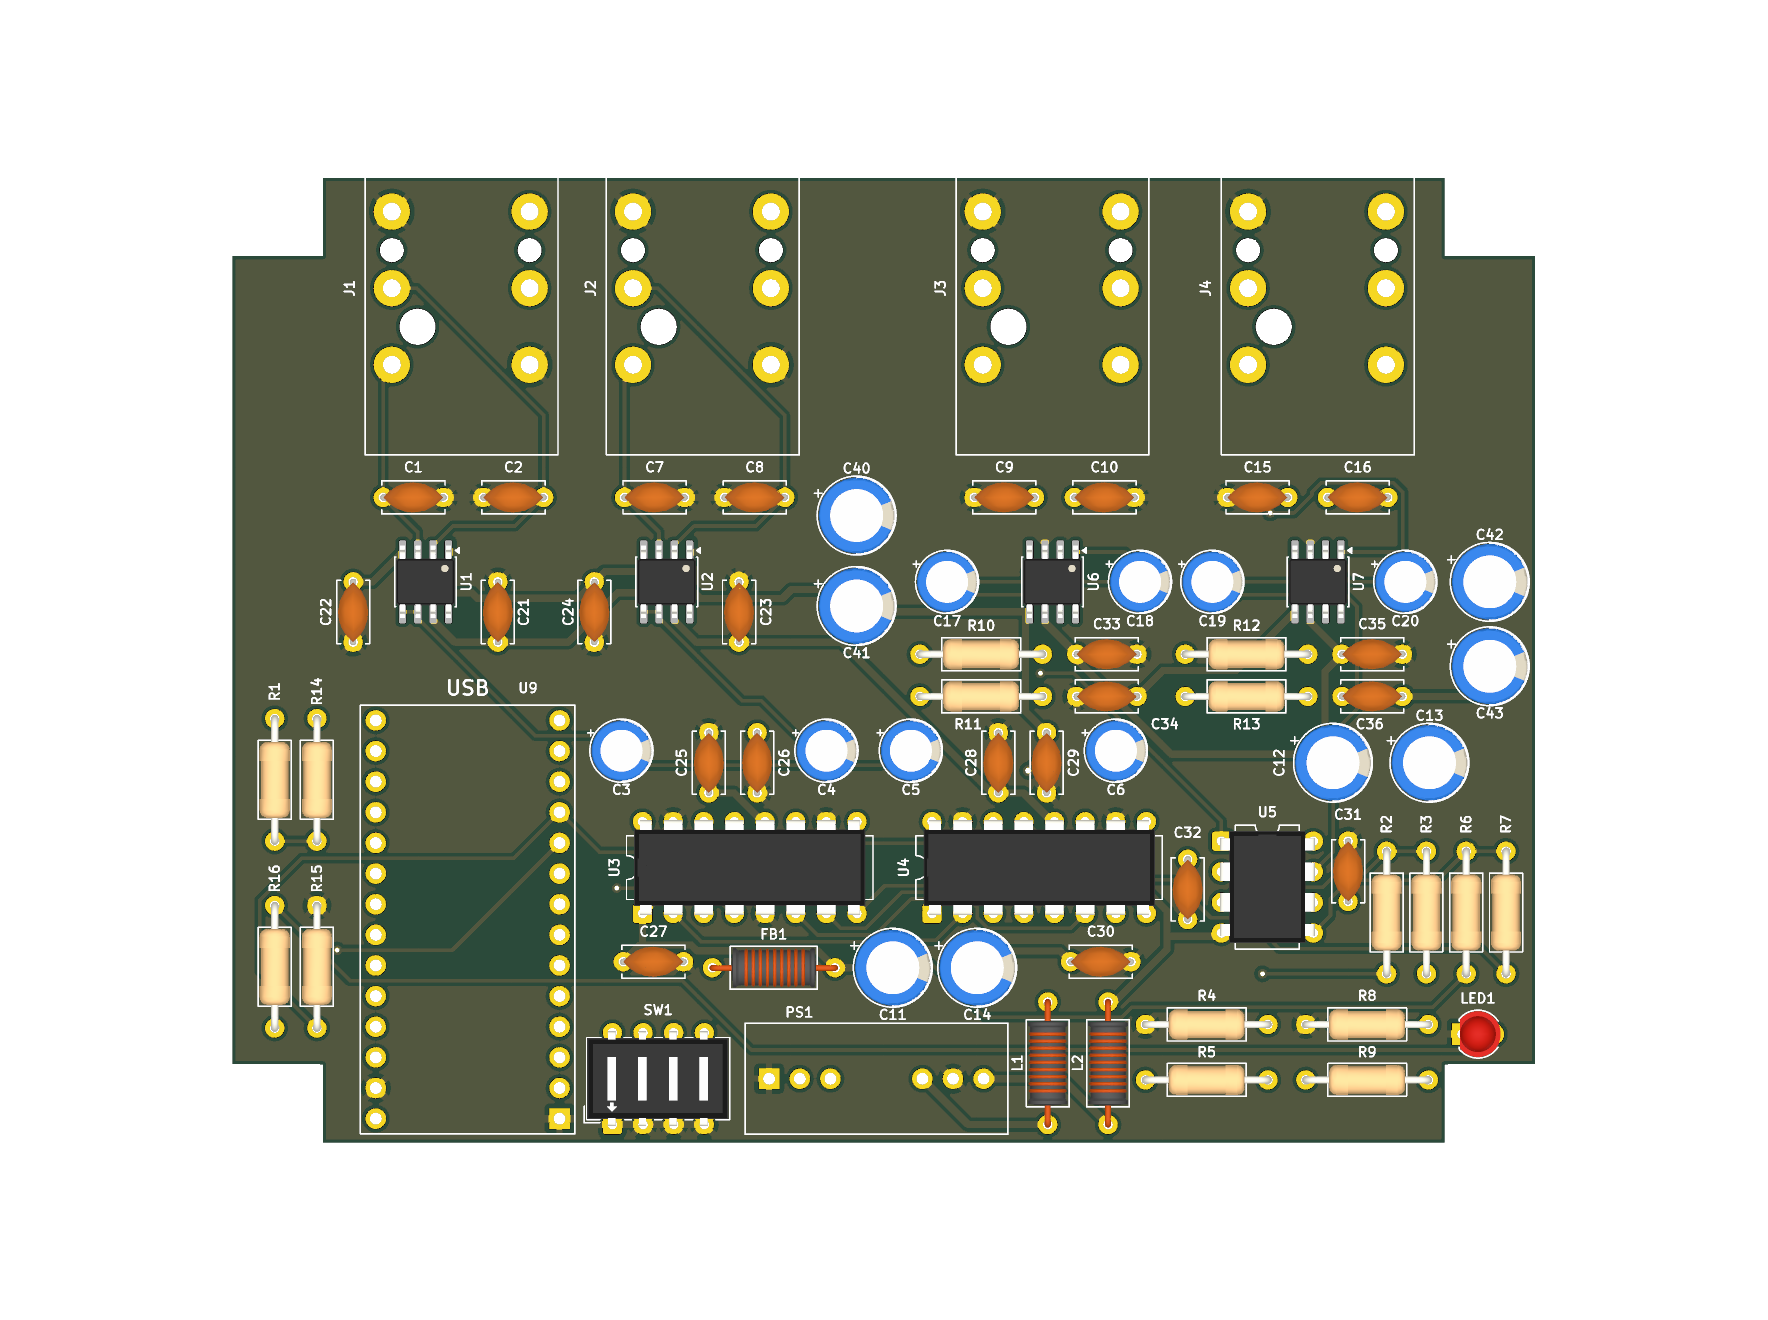
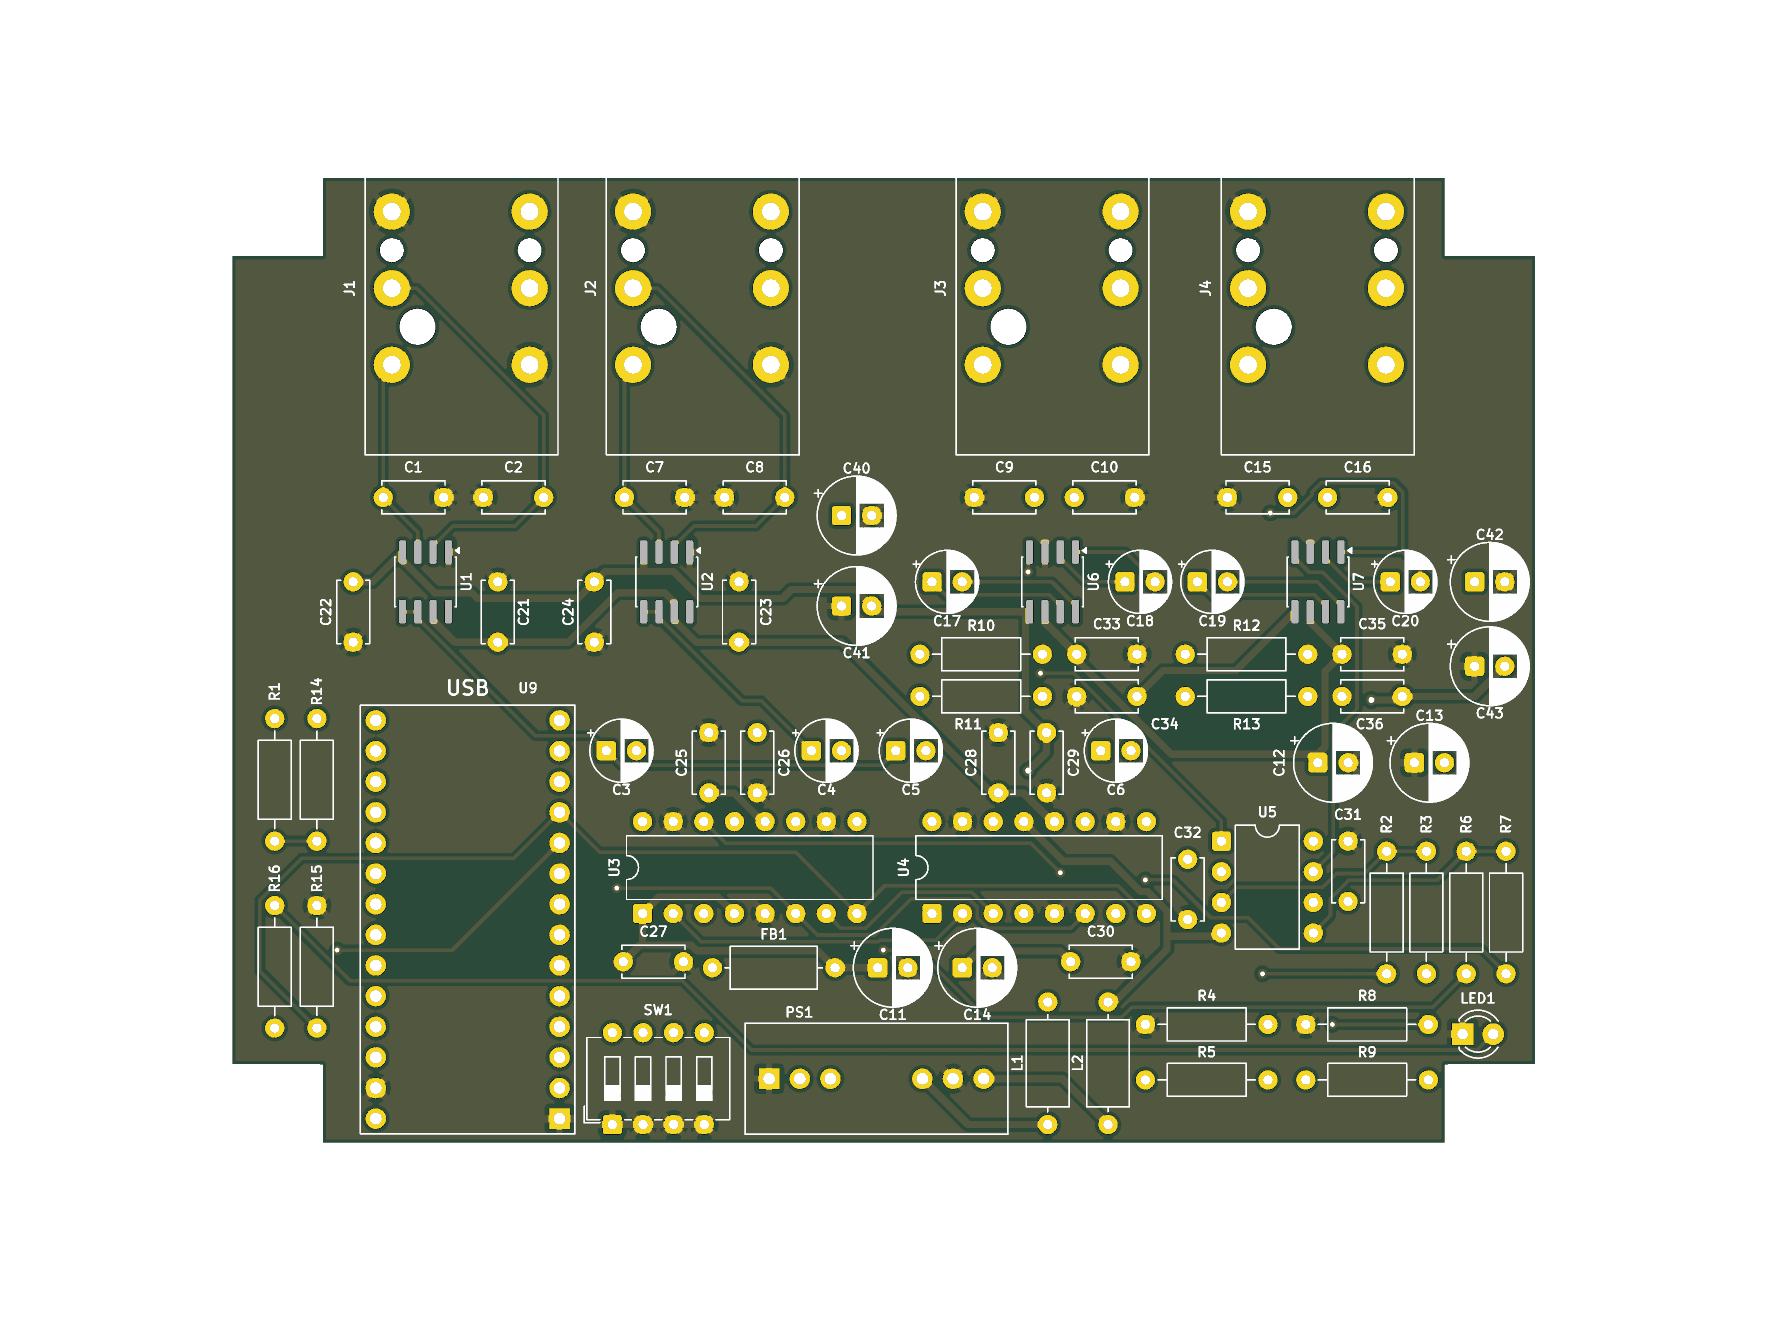
Show the bare board on the site so the designators are readable

diff --git a/docs/index.html b/docs/index.html
@@ -758,7 +758,7 @@ li{margin:0 0 6px}
     <a href="https://github.com/chris-albert/ghost-fader/raw/main/hardware/ghost-fader-gerbers.zip">Gerbers + drill (zip)</a>
     <a href="https://github.com/chris-albert/ghost-fader/blob/main/hardware/kicad/ghost-fader.kicad_pcb">KiCad board file</a>
   </div>
-  <figure class="sch"><div class="scroll"><img src="pcb/top.png" alt="Top of the Ghost Fader board: four Neutrik jacks along the rear edge, THAT 1246 receivers below the input jacks, two PGA2310 DIPs side by side in the middle, OPA2134 and THAT 1646 drivers on the right, Teensy 4.0 front-left, TMR 3 DC-DC and filters front-centre." loading="lazy"></div><figcaption><b>Top.</b> J1–J4 rear edge, U1/U2 receivers, C3–C6 coupling into U3/U4, U5 summer, U6/U7 drivers, U9 Teensy front-left with USB at the edge, PS1 and rail filters front-centre.</figcaption></figure>
+  <figure class="sch"><div class="scroll"><img src="pcb/top.png" alt="Top of the bare Ghost Fader board, silkscreen and pads only: four Neutrik jacks along the rear edge, THAT 1246 receivers below the input jacks, two PGA2310 DIPs side by side in the middle, OPA2134 and THAT 1646 drivers on the right, Teensy 4.0 front-left, TMR 3 DC-DC and filters front-centre." loading="lazy"></div><figcaption><b>Top, bare board as fabricated.</b> J1–J4 rear edge, U1/U2 receivers, C3–C6 coupling into U3/U4, U5 summer, U6/U7 drivers, U9 Teensy front-left with USB at the edge, PS1 and rail filters front-centre.</figcaption></figure>
   <figure class="sch"><div class="scroll"><img src="pcb/bottom.png" alt="Bottom of the Ghost Fader board, mirrored: ground pour with routed tracks and jack labels IN L, IN R, OUT L, OUT R." loading="lazy"></div><figcaption><b>Bottom.</b> Ground pour and the rest of the routing. Jack labels read correctly from the back.</figcaption></figure>
   <div class="note prose"><b>Before ordering.</b> Check the board against your box: the 1590BB is about 112 × 86 mm inside at the base and the lid-screw bosses sit on 103.5 × 78 mm centres, which the notches are sized for. Drill the rear wall on the jack centres (19, 39, 68, 90 mm from the board's left edge) and slot the front wall for the micro-USB plug. LED1 is a 3 mm through-hole part at the front-right corner: bend it toward the panel or use a light pipe.</div>
 </section>
